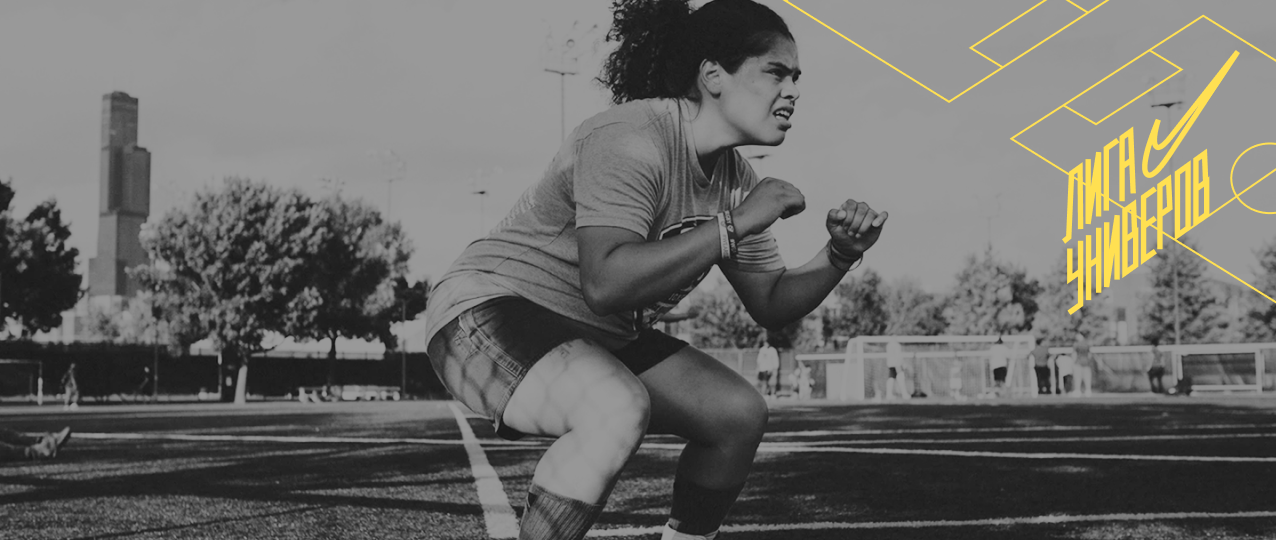
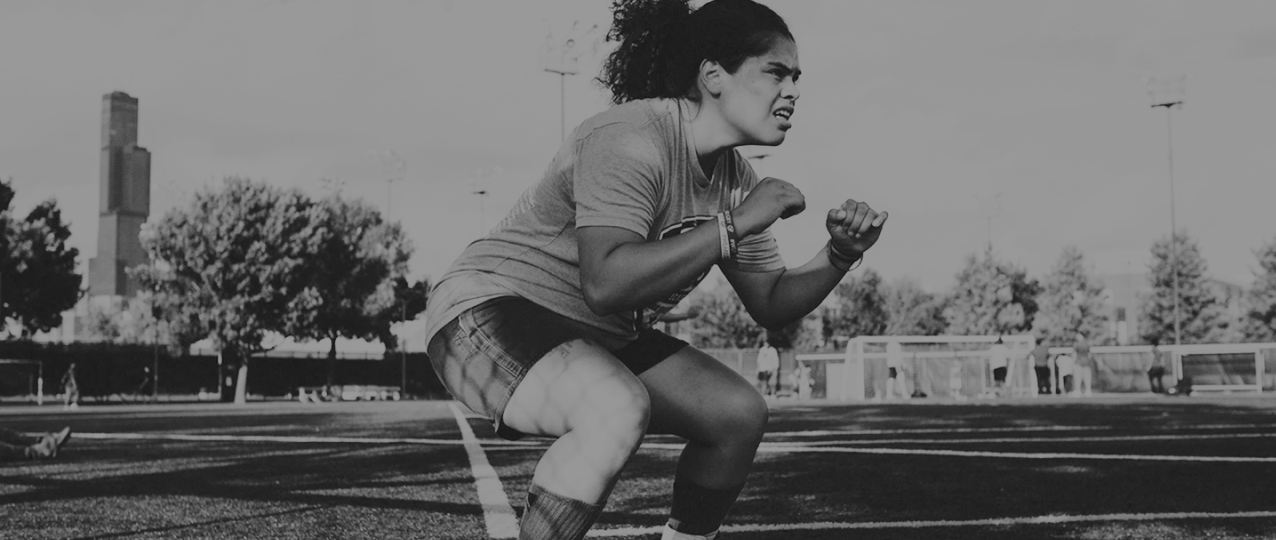
правки slider

diff --git a/css/style.css b/css/style.css
@@ -85,6 +85,28 @@ table {
   background-color: #ffffff;
 }
 
+.promo::before {
+  content: "";
+  position: absolute;
+  width: 1280px;
+  height: 540px;
+  z-index: 3;
+  background: url(../img/Logo.svg) no-repeat top 50px right 40px,
+              url(../img/field-1.svg) no-repeat top 15px left 1010px,
+              url(../img/field-2.svg) no-repeat bottom 440px right 140px;
+}
+
+.promo:after {
+  content: '';
+  position: absolute;
+  top: 0;
+  left: 0;
+  right: 0;
+  bottom: 0;
+  background: rgba(0,0,0,.3);
+  z-index: 2;
+}
+
 .promo-heading {
   position: absolute;
   bottom: 25px;
@@ -92,11 +114,18 @@ table {
   font-weight: 700;
   font-size: 80px;
   line-height: 85px;
+  max-height: 255px;
   color: #ffffff;
   text-transform: uppercase;
   padding-left: 40px;
   padding-right: 250px;
   margin: 0;
+  z-index: 3;
+  display: -webkit-box;
+  -webkit-line-clamp: 3; 
+  -webkit-box-orient: vertical;
+  overflow: hidden;
+  text-overflow: ellipsis;
 }
 
 .slider-list {
@@ -109,14 +138,43 @@ table {
   height: 100px;
 }
 
-.slider-item:first-child {
-  background-color: #FFE052;
-  text-align: center;
+.slider-item:after {
+  content: '';
+  position: absolute;
+  top: 0;
+  left: 0;
+  right: 0;
+  bottom: 0;
+  background: rgba(0,0,0,.3);
+  z-index: 2;
 }
 
-.slider-arrow {
+.slider-item::before {
+  visibility: hidden;
+  opacity: 0;
+  content: "";
   position: absolute;
-  top: 40px;
+  width: 256px;
+  height: 100px;
+  top: 0px;
+  background-color: #FFE052;
+  color: #FFE052;
+  text-align: center;
+  background-image: url(../img/arrow.svg);
+  background-repeat: no-repeat;
+  background-position: 50% 50%;
+  z-index: 3;
+}
+
+.slider-item:hover .slider-heading {
+  opacity: 0;
+  transition: opacity 1s;
+}
+
+.slider-item:hover::before {
+  opacity: 1;
+  visibility: visible;
+  transition: opacity 1s;
 }
 
 .slider-heading  {
@@ -126,9 +184,16 @@ table {
   font-weight: 700;
   font-size: 13px;
   line-height: 16px;
+  max-height: 48px;
   color: #ffffff;
   text-transform: uppercase;
   padding: 0 20px 20px 20px;
+  z-index: 3;
+  display: -webkit-box;
+  -webkit-line-clamp: 3; 
+  -webkit-box-orient: vertical;
+  overflow: hidden;
+  text-overflow: ellipsis;
 }
 
 .calendar {

diff --git a/index.html b/index.html
@@ -8,15 +8,18 @@
     <link href="css/style.css" rel="stylesheet">
 </head>
 <body>
-	<main class="main">
+  <main class="main">
     <section class="slider">
       <div class="promo">
-        <img class="promo-image" src="img/promo.png" alt="Промо" width="1280" height="540">
-        <h1 class="promo-heading">Приходи на смотр чемпионата Лиги 25/06 15:00</h1>
+        <a class="promo-link" href="#">
+          <img class="promo-image" src="img/promo.png" alt="Промо" width="1280" height="540">
+          <h2 class="promo-heading">Трент Александер-Арнольд признан лучшим молодым игроком АПЛ в сезоне-2019/2020</h2>
+        </a>
       </div>
       <ul class="slider-list">
         <li class="slider-item">
-          <img class="slider-arrow" src="img/arrow.svg" alt="стрелка" width="20" height="10">
+          <img class="slider-image" src="img/slider-4.png" alt="слайдер-1" width="256" height="100">
+          <h4 class="slider-heading">Трент Александер-Арнольд признан лучшим молодым игроком АПЛ в сезоне-2019/2020</h4>
         </li>
         <li class="slider-item">
           <img class="slider-image" src="img/slider-1.png" alt="слайдер-1" width="256" height="100">
